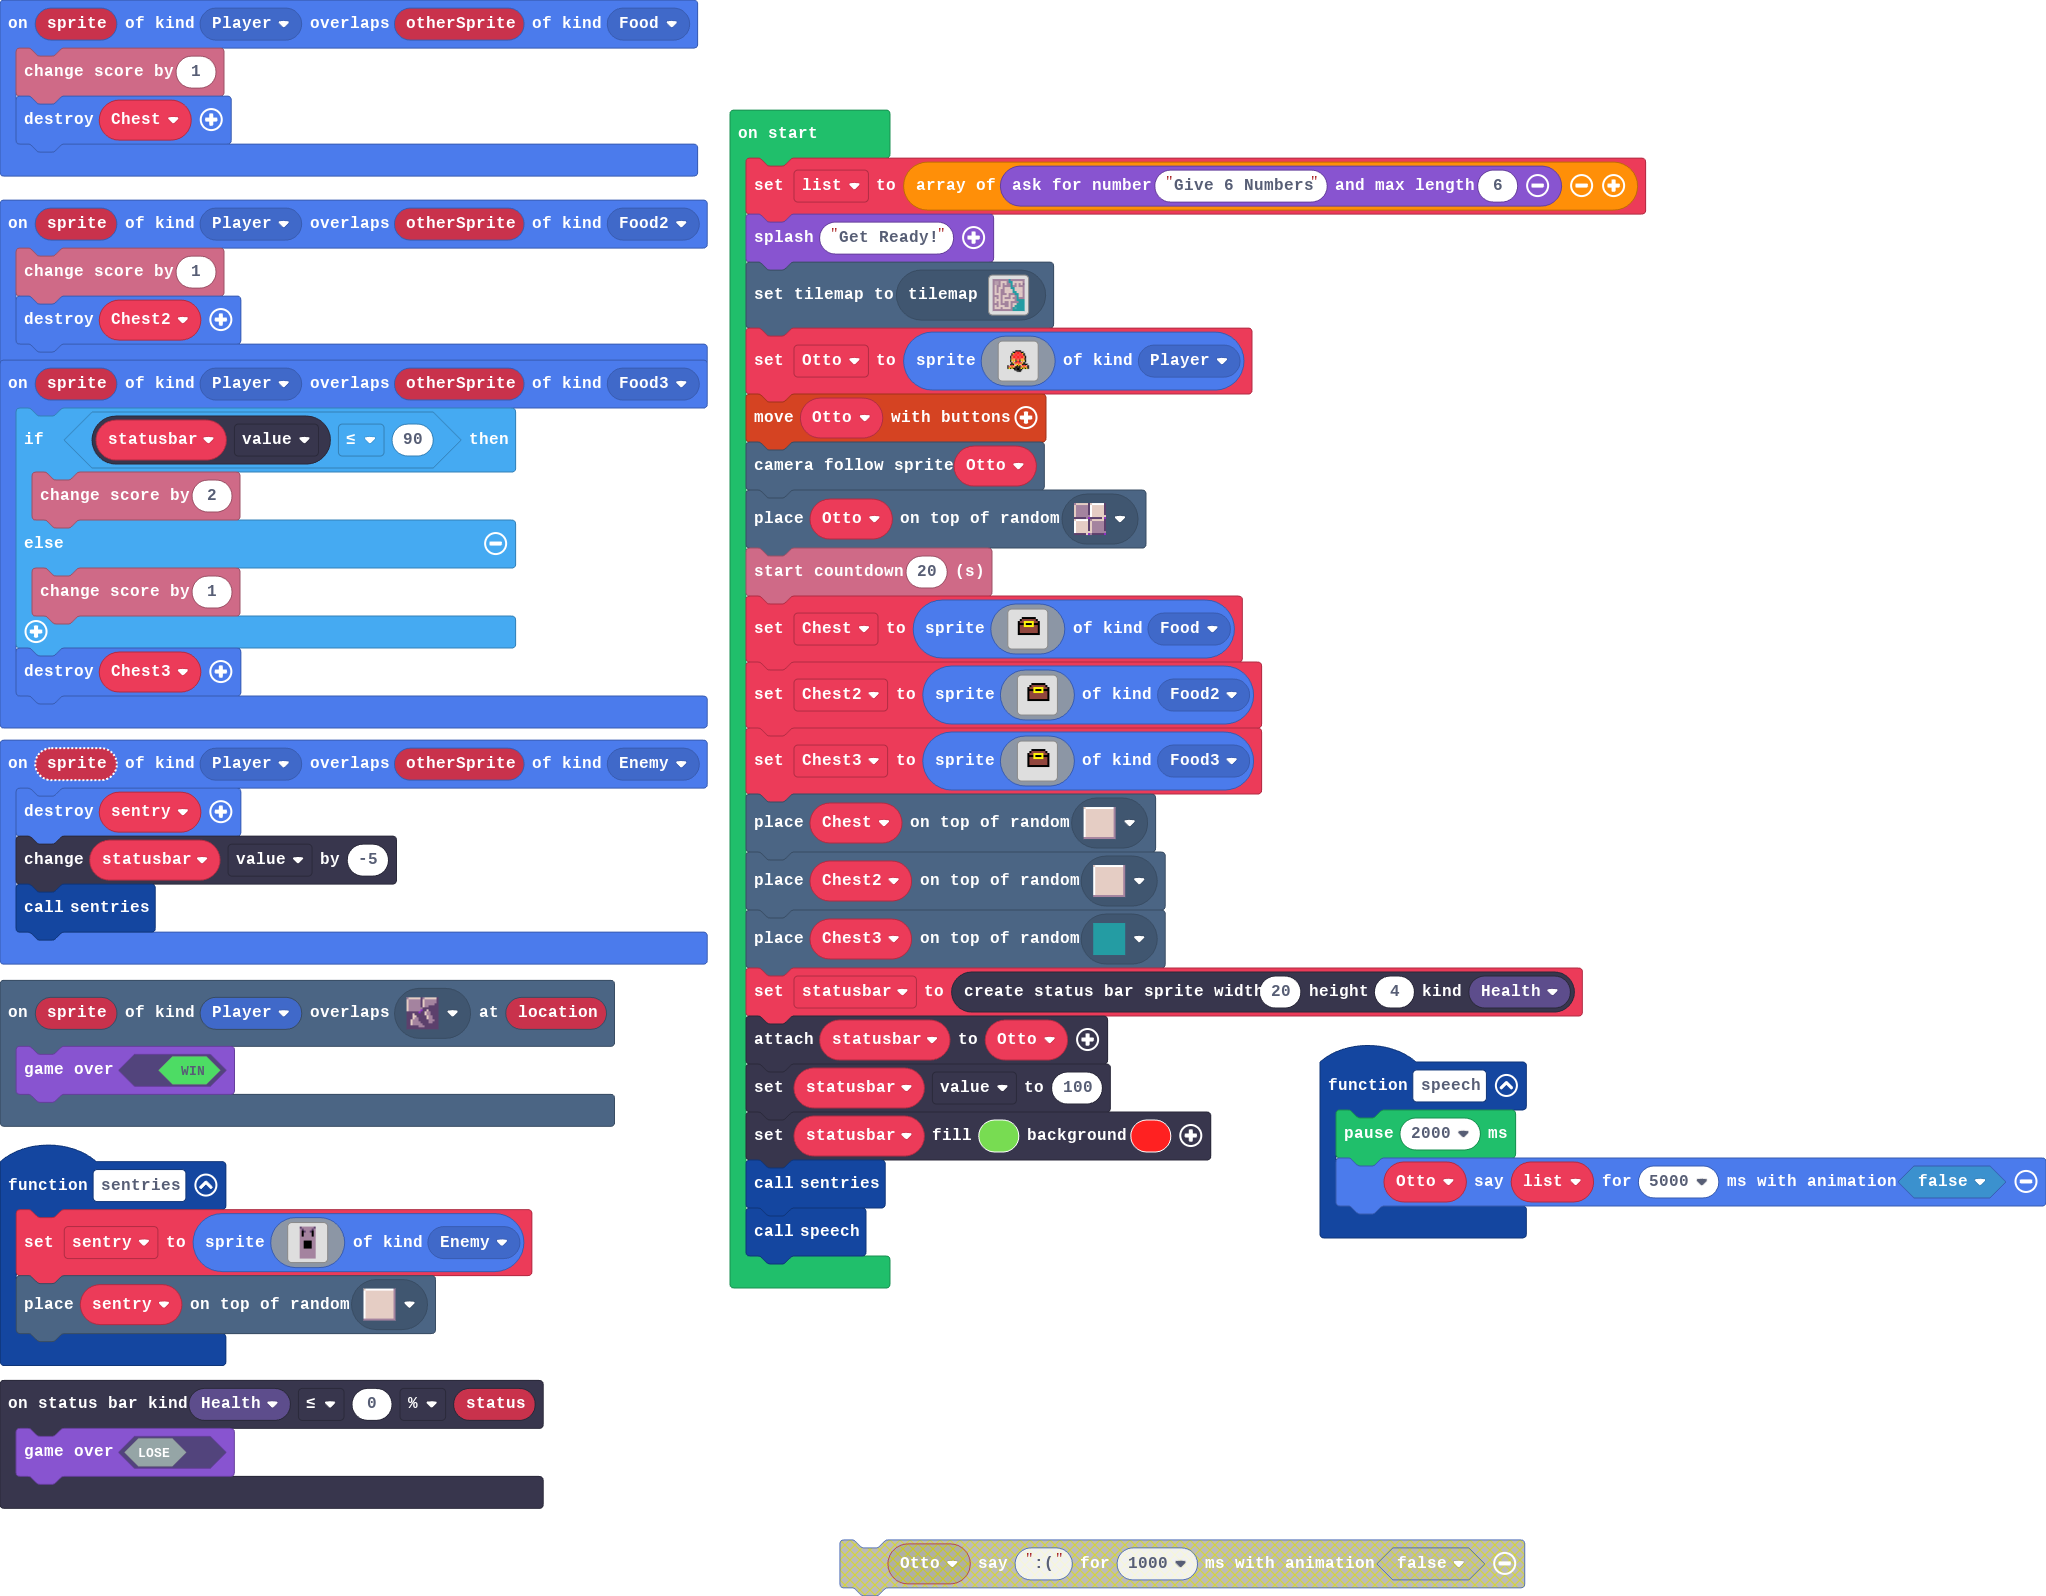
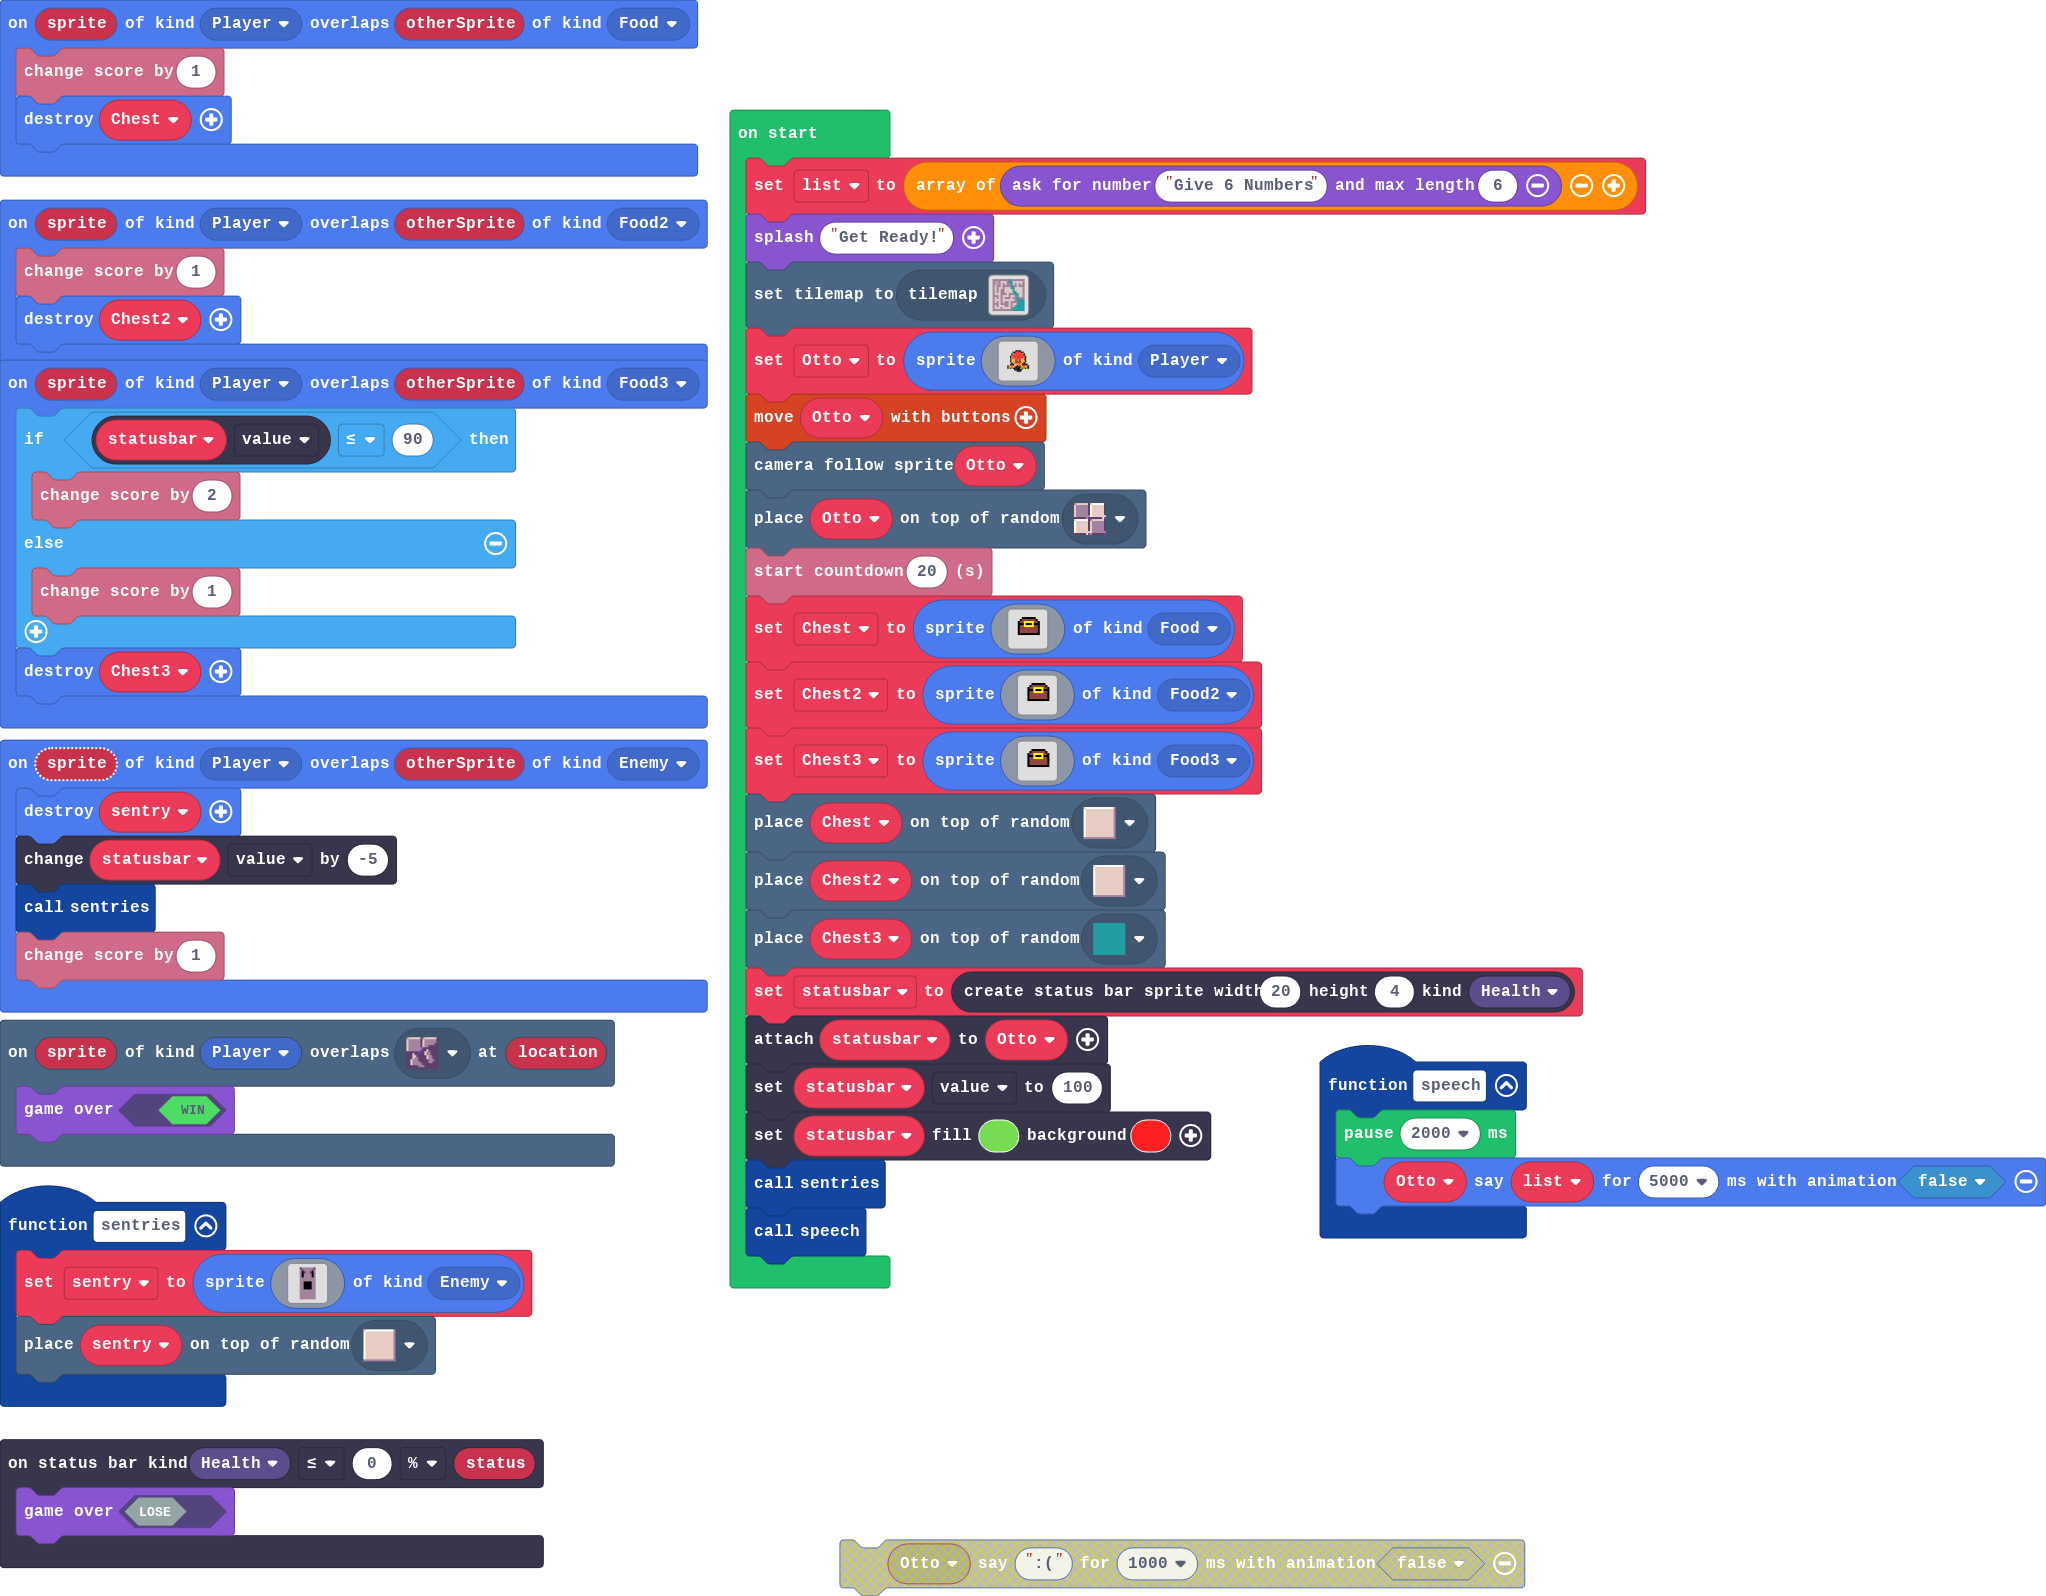
Update main.blocks, main.ts

Changed region(s): [[0.0, 0.5833, 0.3695, 0.9825]]

diff --git a/main.ts b/main.ts
@@ -53,6 +53,7 @@ sprites.onOverlap(SpriteKind.Player, SpriteKind.Enemy, function (sprite, otherSp
     sprites.destroy(sentry)
     statusbar.value += -5
     sentries()
+    info.changeScoreBy(1)
 })
 let sentry: Sprite = null
 let statusbar: StatusBarSprite = null
